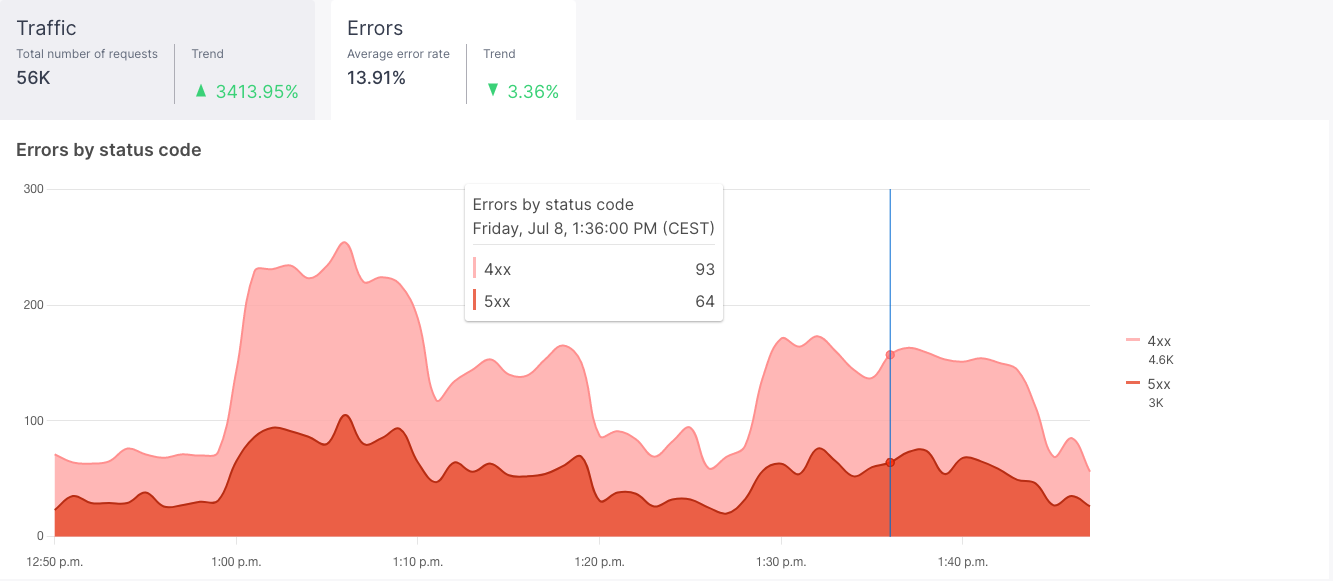
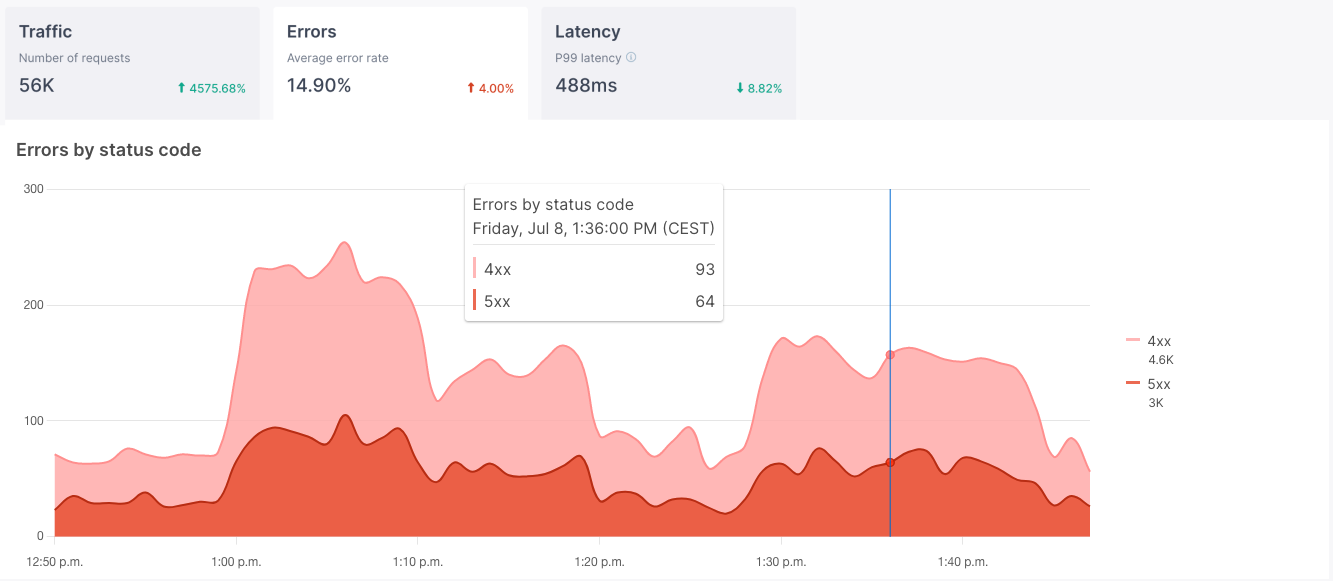
[DOCU-2514] Konnect latency analytics (#4630)

diff --git a/app/konnect/updates.md b/app/konnect/updates.md
@@ -10,14 +10,25 @@ an application that lets you manage configuration for multiple runtimes
 from a single, cloud-based control plane, and provides a catalog of all deployed
 services. [Try it today!](https://cloud.konghq.com/quick-start)
 
+## October 2022
+
+### 2022.10.21
+
+**Latency reporting**
+: The Analytics dashboard now includes a [latency tab](/konnect/analytics/summary-dashboard/), which lets you track
+request latency for the P50, P95, and P99 percentiles.
+P99 latency data also appears in runtime groups and on service overview pages in the Service Hub.
+
+: This feature is available for runtime instances running {{site.base_gateway}} 3.0.0.0 or later.
+
 ## September 2022
 
 ### 2022.09.28
 
-**Analytics custom reports** 
-: [Analytics custom reports](/konnect/analytics/generate-reports/) are now generally available in {{site.konnect_saas}}. This release focuses on stability and minor usability improvements. 
+**Analytics custom reports**
+: [Analytics custom reports](/konnect/analytics/generate-reports/) are now generally available in {{site.konnect_saas}}. This release focuses on stability and minor usability improvements.
 
-: Custom reporting provides more data insights by allowing you to view data details and export data into a CSV file. 
+: Custom reporting provides more data insights by allowing you to view data details and export data into a CSV file.
 
 **Runtime groups dashboard**
 : In {{site.konnect_saas}}, you now have insights into your [runtime groups usage](/konnect/runtime-manager/runtime-groups/dashboard/) across all and individual runtime instances. These insights help platform owners to understand the health and performance of each runtime group, which often reflects individual business units in a more federated organization.
@@ -33,18 +44,18 @@ services. [Try it today!](https://cloud.konghq.com/quick-start)
 This release includes a new user interface that provides information about which runtime instances are incompatible with the current gateway configuration and provides actionable insights into the corrective steps to fix the issue.
 
 **Quick start for new {{site.konnect_saas}} org admins**
-: {{site.konnect_saas}} now includes an optional quick start that automatically creates a runtime group, service package, and gateway service, applies the CORS plugin, and shows analytics for that service with the click of a button. You can use the quick start to become familiar with the different aspects of {{site.konnect_saas}} via text and call-outs to key documentation throughout the onboarding process. 
+: {{site.konnect_saas}} now includes an optional quick start that automatically creates a runtime group, service package, and gateway service, applies the CORS plugin, and shows analytics for that service with the click of a button. You can use the quick start to become familiar with the different aspects of {{site.konnect_saas}} via text and call-outs to key documentation throughout the onboarding process.
 
 **Organization Admin (Read Only) predefined team**
 : A new predefined team has been introduced in {{site.konnect_saas}}. This team allows you to grant users read-only access to all features and functions in {{site.konnect_saas}}. As always, permissions are additive, so a user in the Organization Admin (Read Only) team may also have write access to various features if they are assigned additional permissions.
 
 **Multi-runtime group app registration support <span class="badge alpha"></span>**
-: You can now enable app registration to services in all runtime groups. This feature only supports versions in the non-default runtime group that use {{site.base_gateway}} 3.0. 
+: You can now enable app registration to services in all runtime groups. This feature only supports versions in the non-default runtime group that use {{site.base_gateway}} 3.0.
 
 : As part of this release, API key credentials are no longer stored in the Dev Portal. Portal developers will need to store their credentials immediately after creation.
 
 **Dynamic client registration <span class="badge beta"></span>**
-: {{site.konnect_saas}} Dev Portal supports integration with Okta for end-to-end client management. This feature is released as a private beta. This feature allows Dev Portal developers to automatically create applications in Okta and receive credentials to access services proxied through {{site.base_gateway}}. 
+: {{site.konnect_saas}} Dev Portal supports integration with Okta for end-to-end client management. This feature is released as a private beta. This feature allows Dev Portal developers to automatically create applications in Okta and receive credentials to access services proxied through {{site.base_gateway}}.
 
 **Service version lifecycle**
 : You can identify the [lifecycle stage](/konnect/servicehub/service-versions/#manage-the-service-version-lifecycle) of your APIs and notify Dev Portal developers if a particular API will be deprecated soon.  

diff --git a/app/konnect/runtime-manager/runtime-groups/dashboard.md b/app/konnect/runtime-manager/runtime-groups/dashboard.md
@@ -6,23 +6,36 @@ content_type: reference
 
 The runtime group dashboard provides metrics for runtime instances within a selected time interval for the following categories:
 
-* **Traffic**: Total number of HTTP requests.
-* **Errors**: Percentage of failed HTTP requests.
-* **Gateway services**: Total number of active services.
+* **Number of requests**: Total number of HTTP requests.
+* **Average error rate**: Percentage of failed HTTP requests.
+* **P99 latency**: The latency, in milliseconds, of the 99th percentile of requests.
+* **Active gateway services**: Total number of active services.
 
 All categories measure trends by comparing metrics across fixed comparable time intervals and plotting the data points. For example, hour-over-hour, day-over-day, week-over-week, and month-over-month.
 
-The following describes the different metrics that display on this dashboard: 
+Each category also displays the trend, whether increasing or decreasing, over the selected time period.
+For example, the dashboard might display that latency has decreased by 11.55% over the past 24 hours, or that the number of active services has increased by 25% over that same time span.
 
-* **Traffic**: This displays the total number of HTTP requests split into two categories:
+You can also view these metrics for each individual runtime instance by clicking on **Analytics** in the runtime instances table.
+
+The following describes the different metrics that display for a runtime group or runtime instance:
+
+* **Number of requests**: This displays the total number of HTTP requests split into two categories:
     * Successful: All requests that returned a **1xx-3xx** status code during the specified time interval.
     * Failed: All requests that returned a **4xx-5xx** status code during the specified time interval.
-    
+
     Custom 6xx status codes are not tracked.
 
-* **Errors**: This displays the total number of HTTP requests with response codes between **4xx-5xx** during the specified time interval. 
+* **Average error rate**: This displays the percentage of HTTP requests with response codes between **4xx-5xx** during the specified time interval, out of all requests proxied through this runtime group.
 
-* **Gateway services**: This displays the total number of active services associated with the runtime group. Active services are services that have received at least one request during the defined time period.
+* **P99 latency**: This displays the latency, in milliseconds, of the 99th percentile of requests proxied through this runtime group or instance.
+
+    {:.note}
+    > **Note**: Latency data is only available for requests proxied through runtime instances running {{site.base_gateway}} 3.0.0.0 or later.
+
+* **Active gateway services**: This displays the total number of active services associated with the runtime group. Active services are services that have received at least one request during the defined time period.
+
+    This metric is not available for individual runtime instances.
 
 Graphs are interactive, including hovering over chart items to display more details, and filtering options by clicking on items in the **legend**.
 

diff --git a/app/konnect/analytics/summary-dashboard.md b/app/konnect/analytics/summary-dashboard.md
@@ -9,23 +9,33 @@ The Summary Dashboard provides metrics for services cataloged by Service Hub wit
 
 * **Traffic**: Total number of HTTP requests.
 * **Errors**: Percentage of failed HTTP requests.
+* **Latency**: Request latency at P50, P95, and P99 percentiles.
 
-Both categories measure trends by comparing metrics across fixed comparable time intervals and plotting the data points. For example, hour-over-hour, day-over-day, week-over-week, and month-over-month.
+These categories measure trends by comparing metrics across fixed comparable time intervals and plotting the data points. For example, hour-over-hour, day-over-day, week-over-week, and month-over-month.
 
-You can view a graph for each category by clicking **Traffic** or **Errors**, and switching between the two views.
+You can view a graph for each category by clicking **Traffic**, **Errors**, or **Latency**, and switching between the views.
 
 * **Traffic**: This graph displays the total number of HTTP requests categorized by successful and failed requests over the specified time interval.
     * Successful requests contain all requests that returned a **1xx-3xx** status code.
     * Failed requests contain all requests that returned a **4xx-5xx** status code.
     * Custom 6xx status codes are not tracked.
 
-    ![traffic vitals graph](/assets/images/docs/konnect/konnect-vitals-traffic.png)
+    ![traffic analytics graph](/assets/images/docs/konnect/konnect-vitals-traffic.png)
     > _**Figure 1:** Graph showing successful and failed requests over the past three hours._
 
 * **Errors**: This graph displays the total number of failed HTTP requests categorized by error response codes over the specified time interval. Error response codes include any **4xx-5xx** status codes.
 
-    ![errors vitals graph](/assets/images/docs/konnect/konnect-vitals-errors.png)
+    ![errors analytics graph](/assets/images/docs/konnect/konnect-vitals-errors.png)
     > _**Figure 2:** Graph showing errors by 4xx and 5xx error codes received over the past three hours._
+
+* **Latency**: This graph displays request latency, in milliseconds, of the 99th, 95th, and 50th percentiles.
+Admins can monitor the latency, investigate where delays are noticed, and optimize performance for APIs.
+
+    {:.note}
+    > **Note**: Latency data is only available for requests proxied through runtime instances running {{site.base_gateway}} 3.0.0.0 or later.
+
+   ![latency analytics graph](/assets/images/docs/konnect/konnect-analytics-latency.png)
+  > _**Figure 3:** Graph showing latency as a percentage over the past 15 minutes._
 
 Graphs can be interacted with, including hovering over chart items to display more details, and filtering options by clicking on items in the **legend**.
 

diff --git a/app/konnect/analytics/index.md b/app/konnect/analytics/index.md
@@ -29,15 +29,12 @@ routes, the graphs show requests broken down by status codes.
 For greater insights into your service usage, access the dedicated {% konnect_icon analytics %} [Analytics](https://cloud.konghq.com/analytics) page <span class="badge plus"></span>.
 
 From Analytics, you can view dashboards, access historical data for a range greater than 30 days, and customize the entities in a report:
-* View the [Analytics dashboard](/konnect/analytics/summary-dashboard) to track traffic and errors by error code across all services in your organization.
+* View the [Analytics dashboard](/konnect/analytics/summary-dashboard) to track traffic, errors by error code, and latency across all services in your organization.
 * [Export historical data in CSV format](/konnect/analytics/services-and-routes/) for any individual service, service version, or route.
 * [Create a custom report](/konnect/analytics/generate-reports/) for any number of services, routes, or applications, filtered by time frame and grouped by metric.
 
 ![traffic analytics graph](/assets/images/docs/konnect/konnect-vitals-traffic.png)
 > _**Figure 2:** Graph showing successful and failed requests over the past three hours._
-
- ![errors analytics graph](/assets/images/docs/konnect/konnect-vitals-errors.png)
-> _**Figure 3:** Graph showing errors by 4xx and 5xx error codes received over the past three hours._
 
 ## Time intervals
 

diff --git a/app/konnect/analytics/troubleshoot.md b/app/konnect/analytics/troubleshoot.md
@@ -1,0 +1,21 @@
+---
+title: Troubleshoot Analytics
+no_version: true
+content-type: reference
+---
+
+This page covers issues you may run into with {{site.konnect_short_name}} Analytics.
+
+## The latency graph on the analytics dashboard is empty
+
+You may run into an issue where requests are being proxied through services, but the latency tab on the Analytics page displays the message **No data to display**.
+
+This issue may be happening for one of the following reasons:
+
+* The {{site.base_gateway}} version is incompatible.
+
+  Latency data is available starting with {{site.base_gateway}} 3.0.0.0. To collect latency information, [upgrade your runtime instances](/konnect/runtime-manager/runtime-instances/upgrade/) to the latest version.
+
+* No requests were proxied in the requested time period.
+
+  Select another time period to see requests.
